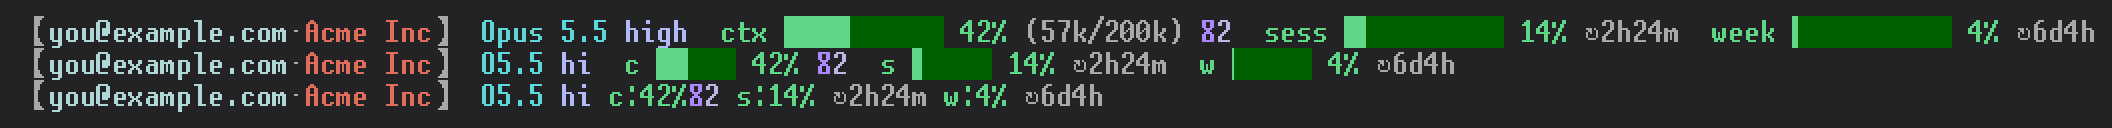
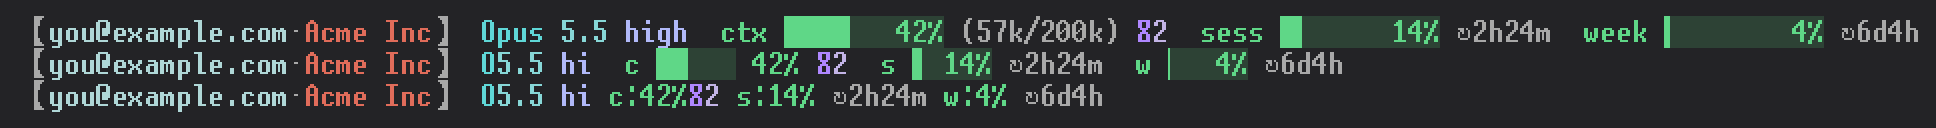
Fit the layout to the line's real width; percentages inside the bars
The tier used to be chosen by fixed column thresholds, so a long account
label or org name overflowed the terminal and Claude Code cut the line
with "…". Now each tier is rendered from the fullest down and the first
whose visible width fits the terminal less STATUSLINE_MARGIN (default 4:
Claude Code indents the line by two and truncates two short of the edge)
is printed.

The percentage now goes inside its bar when it fits with a cell to spare
from the fill edge: right-aligned in the empty part, else left-aligned
in the filled part in dark ink, else after the bar as before. The empty
part is a muted truecolor tint (about a fifth of the fill over dark gray)
instead of the saturated xterm 22/58/52. The model name and its version
are drawn in two neighbouring teals.

The screenshots are taken at 140, 100 and 70 columns so they still show
the three collapse steps, and are regenerated.

Changed region(s): [[0.0, 0.125, 0.9917, 0.875]]

diff --git a/docs/make-screenshots.py b/docs/make-screenshots.py
@@ -193,12 +193,12 @@ def make(glyphs, tmp):
             sys.exit(f"statusline.sh failed (exit {r.returncode}):\n{r.stdout}\n{r.stderr}")
         return r.stdout
 
-    layouts = [run(120, "high"), run(80, "high"), run(60, "high")]
+    layouts = [run(140, "high"), run(100, "high"), run(70, "high")]
     efforts = ["low", "medium", "high", "xhigh", "max", "ultracode"]
     lines = []
     for e in efforts:
         if e == "ultracode":
-            lines.append(run(120, "xhigh"))
+            lines.append(run(140, "xhigh"))
         else:
             # Without the ultracode record the latest state is "off".
             with open(transcript, "a") as t:
@@ -206,7 +206,7 @@ def make(glyphs, tmp):
                 t.write(json.dumps({"type": "attachment", "attachment": {"type": "ultra_effort_exit"},
                                     "timestamp": iso(datetime.now(timezone.utc) + timedelta(seconds=10))},
                                    separators=(",", ":")) + "\n")
-            lines.append(run(120, e))
+            lines.append(run(140, e))
             with open(transcript) as t:
                 kept = t.readlines()[:-1]
             transcript.write_text("".join(kept))

diff --git a/README.md b/README.md
@@ -2,13 +2,18 @@
 
 A status line for [Claude Code](https://claude.com/claude-code) showing the account
 in use, the model and its effort level, context fill, and both usage quotas with their reset countdowns.
-Layout collapses in three steps as the terminal narrows.
+Layout collapses in three steps as the terminal narrows, picking the fullest one that fits.
 
-![The status line at 120, 80 and 60 columns](docs/layouts.png)
+![The status line at 140, 100 and 70 columns](docs/layouts.png)
 
 Percentages are colored green below 50%, yellow from 50%, red from 80%. Bars use
 partial-block glyphs for eighth-of-a-cell resolution, so a 10-cell bar has 80
 distinct levels.
+The percentage sits inside its bar when it fits with at least one cell to spare
+from the fill edge: right-aligned in the empty part, or else left-aligned in
+the filled part, and after the bar only when neither has room.
+
+The model name and its version are drawn in two neighbouring teals.
 
 The effort level (`low`, `medium`, `high`, `xhigh`, `max`) takes the colors the `/effort` picker gives it in the dark theme: yellow, green, pale blue, purple, and a rainbow for `max`. The picker animates the top two; the status line cannot, so `xhigh` gets the plain purple and `max` a per-letter rainbow. Models without effort support (Haiku) show no effort segment. Ultracode (xhigh plus workflow orchestration, team and enterprise plans) is shown as a filled purple `ultracode` badge, `ultra` below 90 columns; see the notes below for how it is detected.
 
@@ -89,6 +94,7 @@ All optional; the defaults need no setup.
 | `STATUSLINE_CACHE_FILE` | Where to keep the usage cache. |
 | `STATUSLINE_CACHE_TTL` | Cache lifetime in seconds. Default 300. |
 | `STATUSLINE_COLS` | Forces a terminal width. Useful for testing the collapsed layouts. |
+| `STATUSLINE_MARGIN` | Columns kept free on top of the line itself when choosing a layout. Default 4. |
 | `STATUSLINE_STATE_DIR` | Where the per-process ultracode state files and the per-transcript compaction counts go. Default: `$XDG_RUNTIME_DIR/claude-statusline`, or `/tmp/claude-statusline`. |
 
 Colors accept an xterm-256 index (`152`), a hex triplet (`#98c0c0`), or a raw SGR
@@ -113,12 +119,18 @@ which account is spending. Pin the colors if you want them stable:
 
 ## Layout tiers
 
-| Width | Layout |
+| Tier | Layout |
 |---|---|
-| ≥ 100 | full, plus `(used/total)` token counts on the context meter |
-| ≥ 90 | full labels, 10-cell bars |
-| 70-89 | initials for labels, 5-cell bars, model abbreviated to `O5` / `H4.5`, effort to `lo` / `med` / `hi` / `xhi` / `max` |
-| < 70 | labels and percentages only, no bars |
+| 0 | full, plus `(used/total)` token counts on the context meter |
+| 1 | full labels, 10-cell bars |
+| 2 | initials for labels, 5-cell bars, model abbreviated to `O5` / `H4.5`, effort to `lo` / `med` / `hi` / `xhi` / `max` |
+| 3 | labels and percentages only, no bars |
+
+The script renders the tiers in this order and prints the first one whose
+visible width fits the terminal, less a margin of 4 columns: Claude Code indents
+the status line by two and truncates it with `…` two short of the edge. The
+cutoffs therefore depend on how long the account label and org name are, not on
+fixed column counts.
 
 A `[1m]` long-context marker in the model name becomes a trailing `+` (`S5+`).
 
